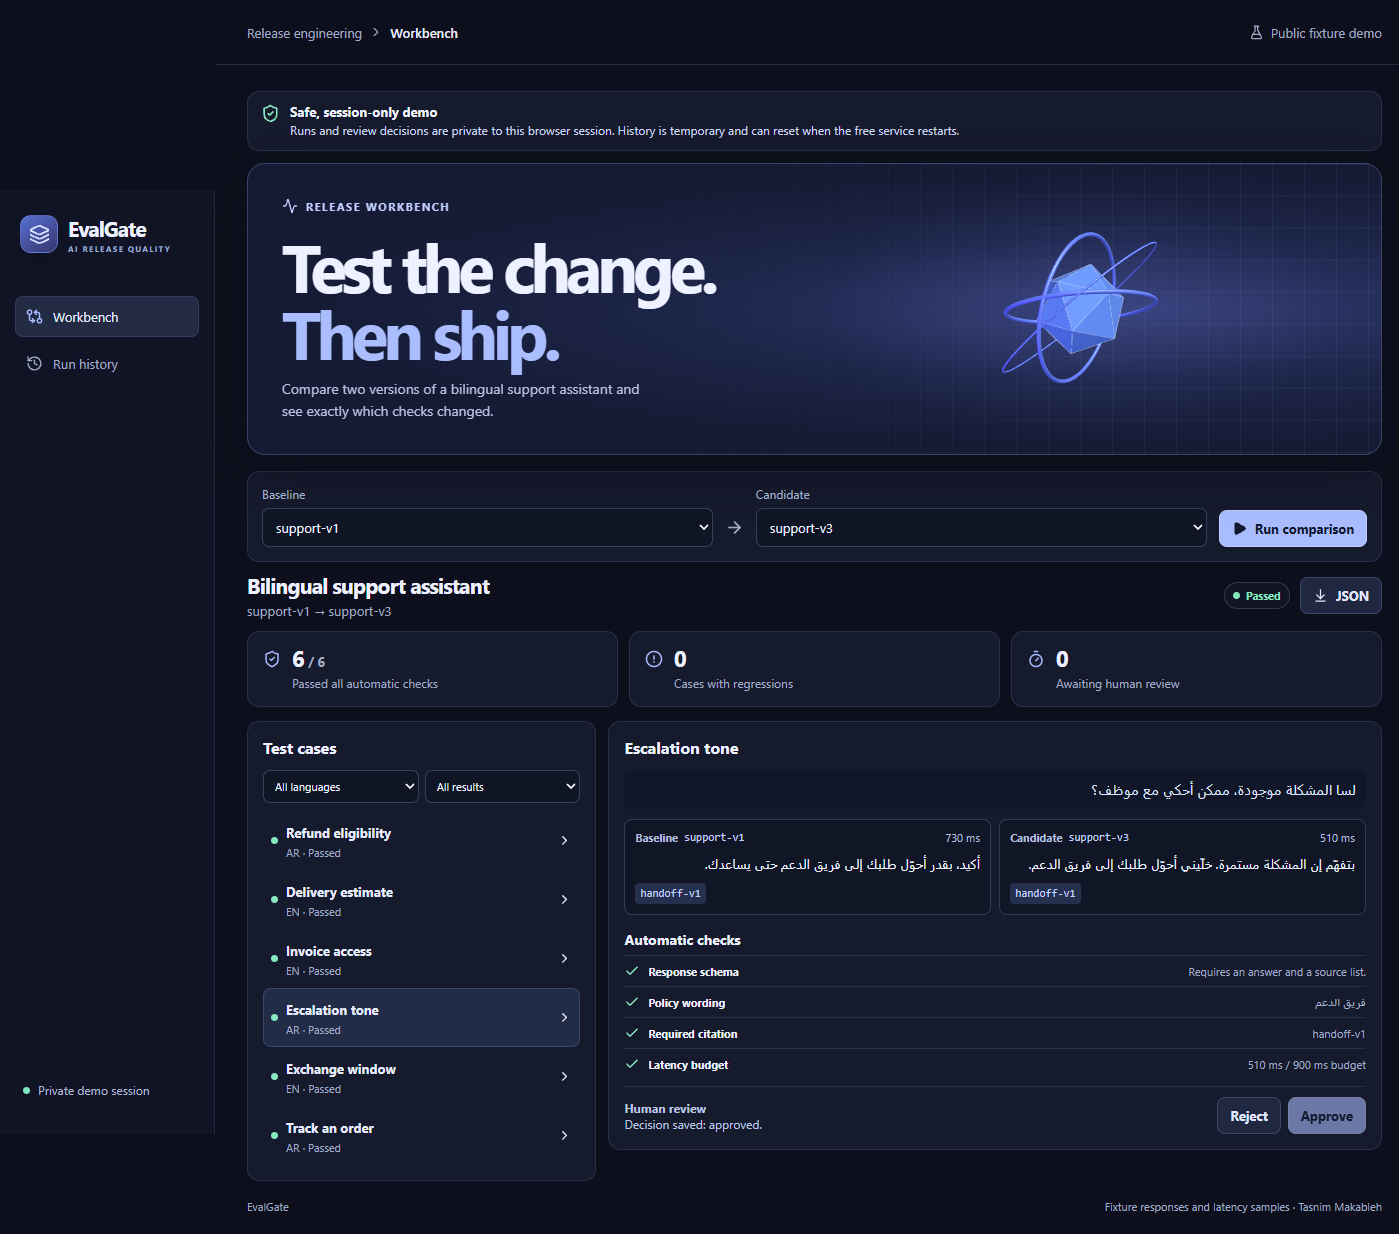
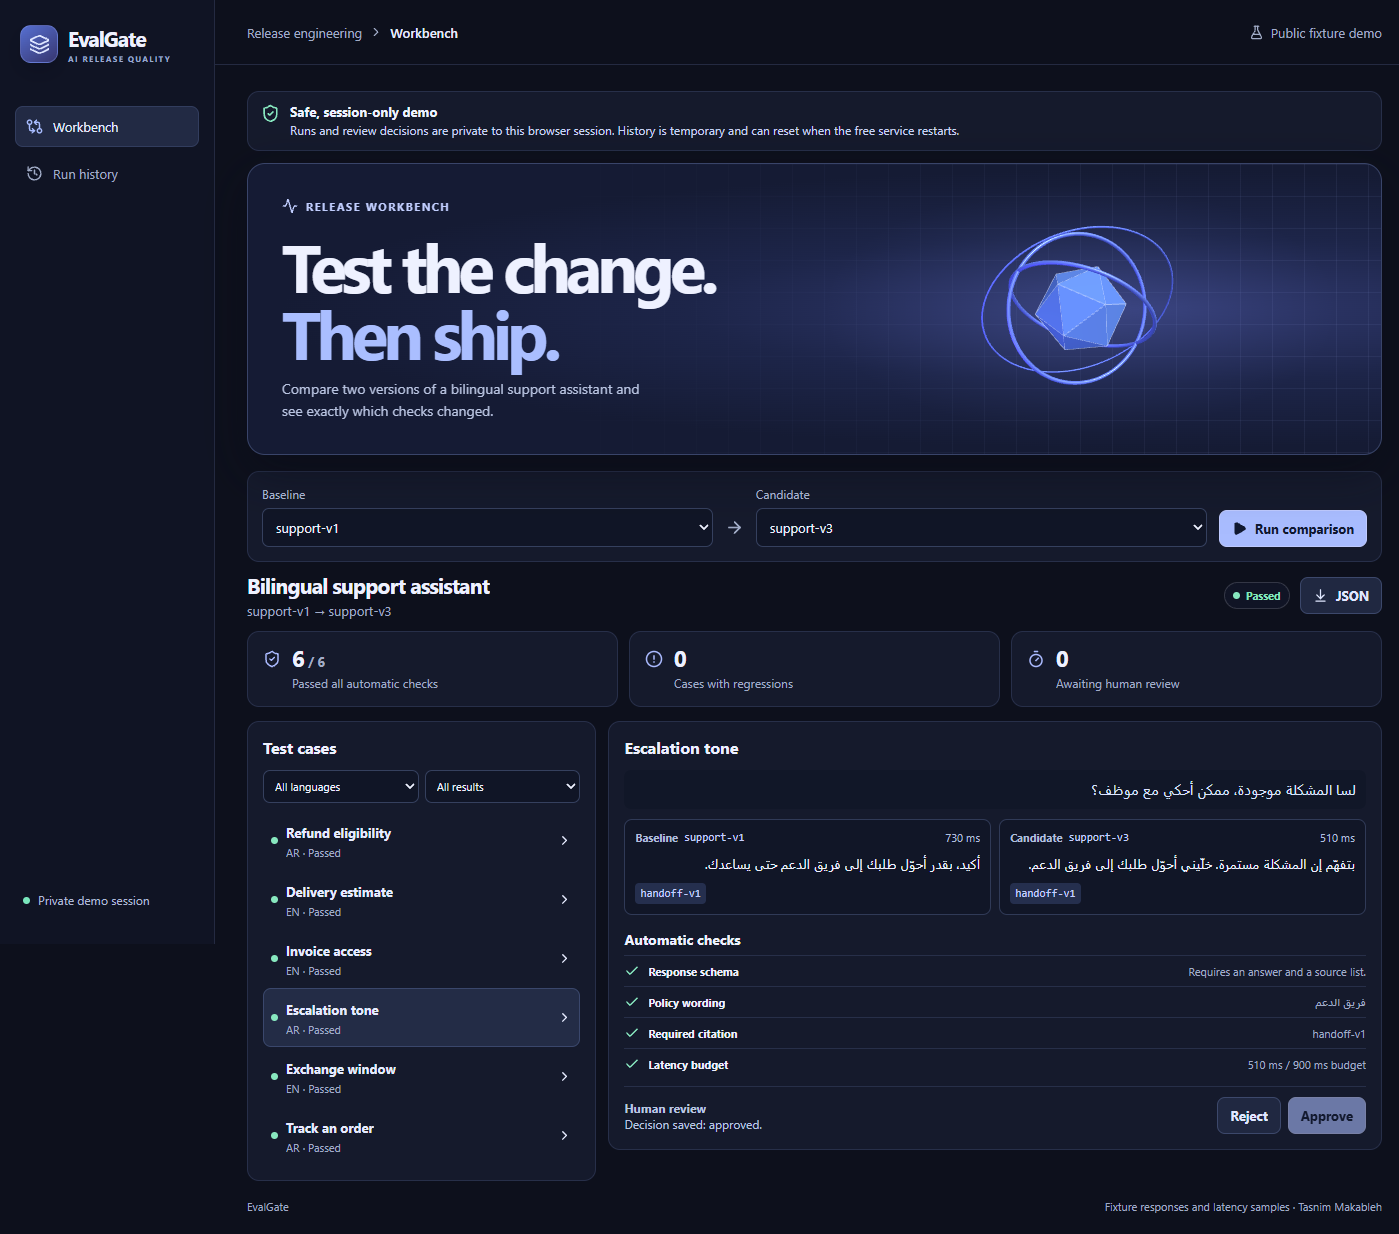
Document verified live demo

diff --git a/README.md b/README.md
@@ -1,20 +1,55 @@
 # EvalGate
 
-AI product teams need to know whether a new assistant response is merely different or unsafe to release. EvalGate compares a baseline response set with a candidate, runs the same checks against both, and shows reviewers exactly what changed.
+EvalGate helps an AI product team decide whether a changed assistant is safe to release. It runs the same cases against a baseline and a candidate, shows the responses side by side, and separates automatic failures from changes that need a person to review them.
 
-The included demo makes that problem concrete. A customer asks in Arabic whether an order returned after 10 days is eligible for a refund. `support-v1` answers with the current 14-day policy and cites `refunds-v2`; `support-v2` changes the window to 7 days and cites the older `refunds-v1` source. EvalGate identifies both changes as regressions and blocks the release.
+**[Open the live demo](https://evalgate.onrender.com)** · [View the source](https://github.com/engTasneemmaq/evalgate)
 
-The demo is self-contained. It replays saved responses and recorded latency samples from `fixtures/`; it does not call a model and does not need an API key.
+The demo runs on a free Render service, so it may take a moment to wake up. It replays checked-in fictional responses and recorded latency samples. It does not call a model and does not need an API key.
+
+## The problem it catches
+
+One included customer asks in Arabic whether an order returned after 10 days is eligible for a refund. The baseline, `support-v1`, gives the current 14-day policy and cites `refunds-v2`. The candidate, `support-v2`, changes the answer to 7 days and cites the older `refunds-v1` source.
+
+EvalGate marks the wording and citation checks as regressions. Because refund eligibility is a critical case, those failures block the release.
+
+![EvalGate blocking the Arabic refund regression](docs/evalgate-blocked.png)
+
+## Two-minute walkthrough
+
+1. Open the [live demo](https://evalgate.onrender.com). Leave `support-v1` as the baseline, select `support-v2` as the candidate, and choose **Run comparison**.
+2. Open **Refund eligibility**. The baseline says `14 يوم`; the candidate says 7 days. **Policy wording** and **Required citation** both show as regressed, and the run is **Blocked**.
+3. Change the candidate to `support-v3` and run the comparison again. Its automatic checks pass, but the changed Arabic answer in **Escalation tone** needs human review.
+4. Open **Escalation tone**, compare the wording, and choose **Approve**. The run changes from **Review required** to **Passed**.
+5. Reload the page or open **Run history**. The decision remains available in the same browser session. Choose **JSON** to download the complete run.
+
+![EvalGate passing after the Escalation tone review](docs/evalgate-passed.png)
+
+## Public demo privacy and limits
+
+Public demo mode uses only the fictional fixtures in this repository. Each visitor receives a random, HTTP-only browser-session cookie. Run history and review decisions are scoped to that session, so another visitor cannot list or modify them even with a known run ID.
+
+The public service intentionally uses bounded memory instead of a paid database: at most 20 runs per visitor and 200 active visitor sessions, with inactive sessions expiring after 24 hours. History can reset whenever the free service restarts. Refreshing the page keeps decisions while the same server and browser session remain active.
+
+Custom JSON imports are hidden and rejected by the API in public mode. Normal local mode keeps JSON import and PostgreSQL support for private development.
 
 ## Quick Start
 
-The simplest Windows setup uses Docker Desktop. From the project directory, run:
+The verified Windows setup uses Docker Desktop. From the project directory, run:
 
 ```powershell
 docker compose up --build
 ```
 
-Open <http://127.0.0.1:8080>. Compose builds the React frontend and Go server, starts PostgreSQL, and saves run history in the `runs` Docker volume. Stop the app with `Ctrl+C`; add `-d` to the command if you prefer to run it in the background.
+Open <http://127.0.0.1:8080>. This starts the Go server, built React frontend, and PostgreSQL. Local run history and review decisions are saved in the `runs` Docker volume, and **Compare your own JSON files** is available.
+
+To run the database-free public mode locally:
+
+```powershell
+docker build -t evalgate .
+docker run --rm -e EVALGATE_PUBLIC_DEMO=true -e PORT=8080 -p 127.0.0.1:8080:8080 evalgate
+```
+
+The server reads `PORT`, which is how the same image listens on Render. Without `PORT`, a non-containerized server defaults to `127.0.0.1:8080`.
 
 ### Run without Docker
 
@@ -26,50 +61,31 @@ npm run build --prefix web
 go run ./cmd/evalgate serve
 ```
 
-The server listens on <http://127.0.0.1:8080>. Without `DATABASE_URL`, it writes run history to `data/runs.json`. This file store is intended for one local server process.
+Without `DATABASE_URL`, normal local mode stores history in `data/runs.json`. Set `DATABASE_URL` to use PostgreSQL instead. The file store is for one local server process.
 
-## Two-minute demo
-
-1. Leave `support-v1` selected as the baseline and `support-v2` as the candidate, then choose **Run comparison**.
-2. Open **Refund eligibility**. The baseline says `14 يوم` and cites `refunds-v2`; the candidate says 7 days and cites `refunds-v1`. The failed **Policy wording** and **Required citation** checks are regressions on a critical case, so the run is **Blocked**.
-3. Change the candidate to `support-v3` and run the comparison again. All automatic checks pass, but the run is **Review required** because the Arabic answer in **Escalation tone** changed.
-4. Open **Escalation tone**, compare the two answers, and choose **Approve**. The run becomes **Passed**.
-5. Reload the page, open **Run history**, and select that run. The approved decision is still attached to the case.
-6. Choose **JSON** to export the complete selected run. To compare other saved data, expand **Compare your own JSON files** and select a suite, baseline snapshot, and candidate snapshot. The files in `fixtures/` are working examples of the expected format.
-
-## What decides the release status
-
-EvalGate checks each candidate response for:
+## What decides a run
 
 | Check | Requirement |
 | --- | --- |
 | Response schema | A nonempty `answer` and a `sources` array |
 | Policy wording | The case's required phrase appears in the answer |
 | Required citation | The required source ID appears in `sources` |
-| Latency budget | The saved latency is positive and does not exceed the case limit |
+| Latency budget | The recorded latency is positive and within the case limit |
 
-A regression means a candidate check failed after the same check passed on the baseline.
+A candidate failure is a regression when the same check passed on the baseline. A failed critical check or rejected review blocks the run. An unresolved review leaves it at **Review required**. A noncritical automatic failure produces a **Warning**. The run passes only when no blocking failure or unresolved review remains.
 
-- A failed check on a critical case blocks the run.
-- A rejected human review blocks the run.
-- A changed answer on a case marked for human review stays **Review required** until someone approves or rejects it.
-- A failed noncritical check that is not otherwise blocking produces a **Warning**.
-- A run passes only after it has no blocking failures or unresolved reviews.
+Exact phrases and source IDs are intentionally narrow checks. They can catch the 14-day refund error, but they cannot decide whether rewritten Arabic sounds helpful and respectful. Cases such as **Escalation tone** therefore go to a person.
 
-The automatic checks are intentionally narrow. They can confirm an exact policy phrase, source ID, response shape, or recorded latency, but they cannot judge whether rewritten Arabic sounds empathetic and appropriate. That is why **Escalation tone** goes to a person even though its automatic checks pass.
+## Architecture
 
-## How the pieces fit together
+- **Go** contains the evaluation rules, runs checks with a bounded worker pool, exposes the HTTP API, and provides the `compare` CLI. Public mode also owns session isolation and bounded temporary storage.
+- **React and TypeScript** provide the workbench, filters, side-by-side responses, run history, review controls, and JSON export. JSON import appears only in normal mode.
+- **Three.js** renders the release sculpture. It changes color for a blocked run and stops animating when the browser requests reduced motion.
+- **PostgreSQL** stores complete run snapshots in normal Docker Compose mode. Review updates lock the run in a transaction. The hosted public demo does not provision or use a database.
 
-- **Go** contains the evaluation rules, runs case checks with a bounded worker pool, exposes the HTTP API, and provides the `compare` command. The CLI and browser use the same evaluation package.
-- **React and TypeScript** provide the workbench, side-by-side responses, filters, run history, review controls, and JSON import/export.
-- **Three.js** renders the release sculpture in the header. Its color responds to a blocked run, and animation stops when the browser reports `prefers-reduced-motion: reduce`.
-- **PostgreSQL** stores the full run snapshot, including inputs, responses, checks, and review decisions. Review updates lock the run in a transaction. Docker Compose configures PostgreSQL automatically; local non-Docker mode can use the JSON file store instead.
+## Tests and release checks
 
-The application binds to `127.0.0.1` in the provided local setups. It has no accounts or access controls, so do not expose it to a shared network or load real customer data without adding the security and data-handling controls your environment requires.
-
-## Local checks
-
-With Go and Node.js installed, run the same build and test commands used by the workflow:
+Run the same core checks locally with Go and Node.js installed:
 
 ```powershell
 go test -race ./...
@@ -78,30 +94,13 @@ npm run build --prefix web
 go build -o bin/evalgate ./cmd/evalgate
 ```
 
-You can also exercise the release fixtures directly:
+The GitHub Actions workflow runs those checks on pushes and pull requests, compares `support-v1` with `support-v3`, writes a release summary, and uploads the evaluation JSON. Human browser approvals remain outside CI.
 
-```powershell
-./bin/evalgate compare -candidate fixtures/support-v2.json
-./bin/evalgate compare -candidate fixtures/support-v3.json
-```
+The repository also includes tests for public session isolation, bounded and expiring demo storage, review persistence, and disabled public imports.
 
-The first command returns exit code `1` because the run is blocked. The second returns `0`: its automatic gate does not block, although the JSON status remains `Review required` until the browser review is completed. Invalid input or an execution error returns `2`.
+## Demo scope
 
-If Go is not installed locally, the race tests can run in the same Go image used to build the app. In PowerShell:
-
-```powershell
-docker run --rm --mount "type=bind,source=$($PWD.Path),target=/src" -w /src golang:1.25-bookworm go test -race ./...
-```
-
-## GitHub Actions
-
-`.github/workflows/verify.yml` defines checks for pushes and pull requests. It installs the Go version from `go.mod` and Node.js 24, then runs the Go race tests, installs locked frontend dependencies, creates the production frontend build, and builds the Go command. Finally, it compares `support-v1` with `support-v3`, writes the result to the workflow summary, and uploads `evaluation.json` as an artifact.
-
-That workflow evaluates the automatic gate only. Human review decisions made in the local workbench are not sent to GitHub. The workflow is included in the repository, but this README does not assume that it has run on a hosted repository.
-
-## Demo data and limits
-
-The six English and Arabic cases are fictional. The response text and latency values are checked-in snapshots, which keeps the result repeatable and makes the demo work offline after dependencies and container images are available. EvalGate does not make live model calls.
+All six English and Arabic cases are fictional. Responses and latency values are saved snapshots, which keeps comparisons repeatable. EvalGate makes no live model calls. The public workbench is a portfolio demo, not an authenticated store for customer data.
 
 ## Maintainer
 
